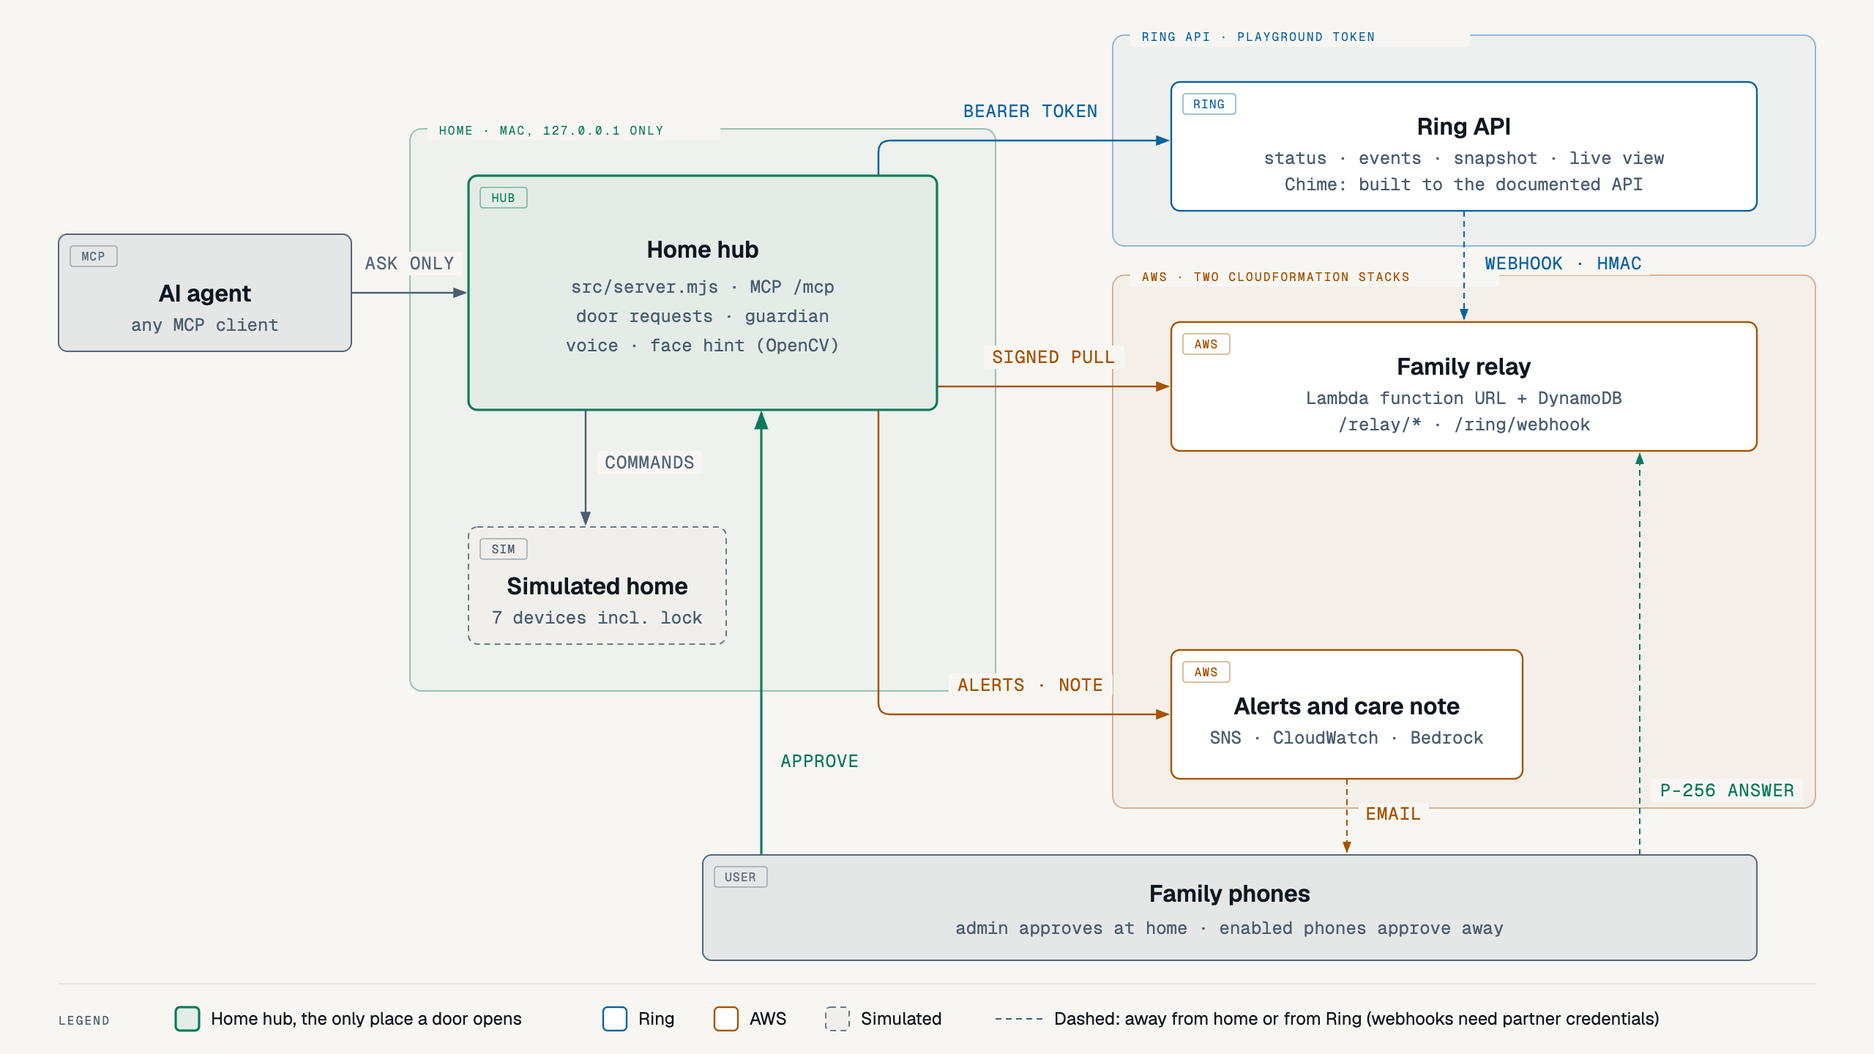
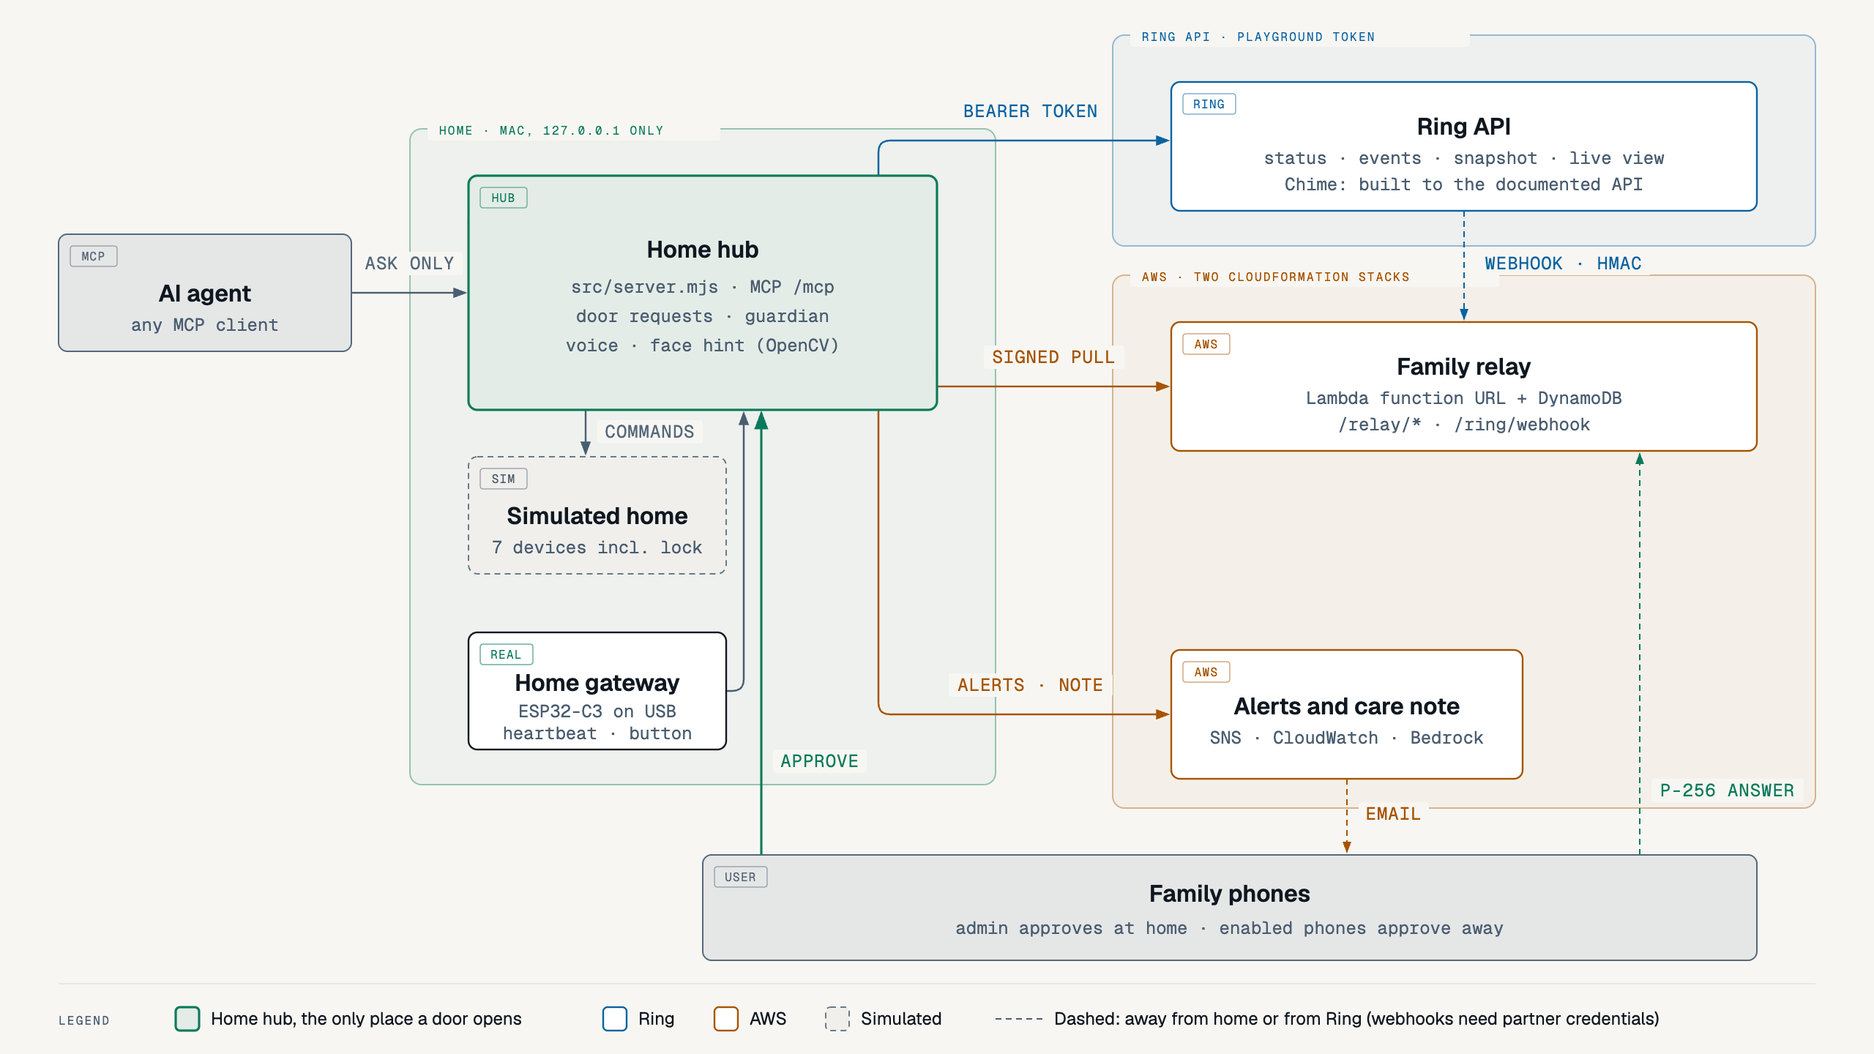
Docs: show the real ESP32-C3 home gateway in the architecture
Overview diagram and both Mermaid charts gain a "Home gateway: real
ESP32-C3 on USB" node (heartbeat, the parent's button). README status
table no longer calls the gateway simulated; SECURITY and THREAT_MODEL
describe how the hub picks and trusts the board and what it can do.

Changed region(s): [[0.25, 0.4062, 0.4062, 0.7188]]

diff --git a/docs/diagrams/system-overview.html b/docs/diagrams/system-overview.html
@@ -62,7 +62,7 @@
     <div class="diagram-container">
       <svg viewBox="0 0 1280 720" xmlns="http://www.w3.org/2000/svg" role="img" aria-labelledby="system-overview-title system-overview-desc">
         <title id="system-overview-title">Home MCP Guardian: what runs where</title>
-        <desc id="system-overview-desc">A home hub on the Mac takes door requests from an AI agent and approvals from family phones, drives simulated home devices, calls the Ring API, and uses two AWS stacks: a signed relay that also receives Ring webhooks, and SNS, CloudWatch and Bedrock for alerts and the daily care note.</desc>
+        <desc id="system-overview-desc">A home hub on the Mac takes door requests from an AI agent and approvals from family phones, drives simulated home devices, watches a real ESP32-C3 home gateway on USB (heartbeat and the parent's button), calls the Ring API, and uses two AWS stacks: a signed relay that also receives Ring webhooks, and SNS, CloudWatch and Bedrock for alerts and the daily care note.</desc>
         <defs>
           <marker id="arrow" markerWidth="8" markerHeight="6" refX="7" refY="3" orient="auto"><polygon points="0 0, 8 3, 0 6" fill="#4a5d70"/></marker>
           <marker id="arrow-accent" markerWidth="8" markerHeight="6" refX="7" refY="3" orient="auto"><polygon points="0 0, 8 3, 0 6" fill="#0b7a5a"/></marker>
@@ -73,7 +73,7 @@
         <rect width="100%" height="100%" fill="#f7f6f3"/>
 
         <!-- ===== Zones ===== -->
-        <rect x="280" y="88" width="400" height="384" rx="8" fill="rgba(11,122,90,0.04)" stroke="rgba(11,122,90,0.40)" stroke-width="1"/>
+        <rect x="280" y="88" width="400" height="448" rx="8" fill="rgba(11,122,90,0.04)" stroke="rgba(11,122,90,0.40)" stroke-width="1"/>
         <rect x="292" y="80" width="200" height="16" rx="2" fill="#f7f6f3"/>
         <text x="300" y="92" fill="#0b7a5a" font-size="8" font-family="'Geist Mono', ui-monospace, monospace" letter-spacing="0.14em">HOME · MAC, 127.0.0.1 ONLY</text>
 
@@ -106,10 +106,12 @@
         <rect x="672" y="236" width="96" height="16" rx="2" fill="#f7f6f3"/>
         <text x="720" y="248" fill="#a65400" font-size="12" font-family="'Geist Mono', ui-monospace, monospace" text-anchor="middle" letter-spacing="0.04em">SIGNED PULL</text>
 
+        <!-- home gateway -> hub: heartbeat every 60 s and the parent's button, over USB -->
+        <path d="M496,472 H500 Q508,472 508,464 V282" fill="none" stroke="#4a5d70" stroke-width="1.2" marker-end="url(#arrow)"/>
         <!-- hub -> simulated devices -->
-        <line x1="400" y1="280" x2="400" y2="358" stroke="#4a5d70" stroke-width="1.2" marker-end="url(#arrow)"/>
-        <rect x="408" y="308" width="72" height="16" rx="2" fill="#f7f6f3"/>
-        <text x="444" y="320" fill="#55687a" font-size="12" font-family="'Geist Mono', ui-monospace, monospace" text-anchor="middle" letter-spacing="0.04em">COMMANDS</text>
+        <line x1="400" y1="280" x2="400" y2="310" stroke="#4a5d70" stroke-width="1.2" marker-end="url(#arrow)"/>
+        <rect x="408" y="287" width="72" height="16" rx="2" fill="#f7f6f3"/>
+        <text x="444" y="299" fill="#55687a" font-size="12" font-family="'Geist Mono', ui-monospace, monospace" text-anchor="middle" letter-spacing="0.04em">COMMANDS</text>
 
         <!-- hub -> alerts and care note -->
         <path d="M600,280 V480 Q600,488 608,488 H798" fill="none" stroke="#a65400" stroke-width="1.2" marker-end="url(#arrow-aws)"/>
@@ -151,12 +153,21 @@
         <text x="480" y="240" fill="#4a5d70" font-size="12" font-family="'Geist Mono', ui-monospace, monospace" text-anchor="middle">voice · face hint (OpenCV)</text>
 
         <!-- Simulated home (optional / simulated) -->
-        <rect x="320" y="360" width="176" height="80" rx="6" fill="#f7f6f3"/>
-        <rect x="320" y="360" width="176" height="80" rx="6" fill="rgba(15,23,32,0.03)" stroke="#6b7a88" stroke-width="1" stroke-dasharray="4,3"/>
-        <rect x="328" y="368" width="32" height="14" rx="2" fill="transparent" stroke="rgba(107,122,136,0.60)" stroke-width="0.8"/>
-        <text x="344" y="378" fill="#4a5d70" font-size="8" font-family="'Geist Mono', ui-monospace, monospace" text-anchor="middle" letter-spacing="0.08em">SIM</text>
-        <text x="408" y="406" fill="#0f1720" font-size="16" font-weight="600" font-family="'Geist', system-ui, sans-serif" text-anchor="middle">Simulated home</text>
-        <text x="408" y="426" fill="#4a5d70" font-size="12" font-family="'Geist Mono', ui-monospace, monospace" text-anchor="middle">7 devices incl. lock</text>
+        <rect x="320" y="312" width="176" height="80" rx="6" fill="#f7f6f3"/>
+        <rect x="320" y="312" width="176" height="80" rx="6" fill="rgba(15,23,32,0.03)" stroke="#6b7a88" stroke-width="1" stroke-dasharray="4,3"/>
+        <rect x="328" y="320" width="32" height="14" rx="2" fill="transparent" stroke="rgba(107,122,136,0.60)" stroke-width="0.8"/>
+        <text x="344" y="330" fill="#4a5d70" font-size="8" font-family="'Geist Mono', ui-monospace, monospace" text-anchor="middle" letter-spacing="0.08em">SIM</text>
+        <text x="408" y="358" fill="#0f1720" font-size="16" font-weight="600" font-family="'Geist', system-ui, sans-serif" text-anchor="middle">Simulated home</text>
+        <text x="408" y="378" fill="#4a5d70" font-size="12" font-family="'Geist Mono', ui-monospace, monospace" text-anchor="middle">7 devices incl. lock</text>
+
+        <!-- Home gateway: real ESP32-C3 on USB (2026-10-17) -->
+        <rect x="320" y="432" width="176" height="80" rx="6" fill="#f7f6f3"/>
+        <rect x="320" y="432" width="176" height="80" rx="6" fill="#ffffff" stroke="#0f1720" stroke-width="1.2"/>
+        <rect x="328" y="440" width="36" height="14" rx="2" fill="transparent" stroke="rgba(11,122,90,0.60)" stroke-width="0.8"/>
+        <text x="346" y="450" fill="#0b7a5a" font-size="8" font-family="'Geist Mono', ui-monospace, monospace" text-anchor="middle" letter-spacing="0.08em">REAL</text>
+        <text x="408" y="472" fill="#0f1720" font-size="16" font-weight="600" font-family="'Geist', system-ui, sans-serif" text-anchor="middle">Home gateway</text>
+        <text x="408" y="490" fill="#4a5d70" font-size="12" font-family="'Geist Mono', ui-monospace, monospace" text-anchor="middle">ESP32-C3 on USB</text>
+        <text x="408" y="505" fill="#4a5d70" font-size="12" font-family="'Geist Mono', ui-monospace, monospace" text-anchor="middle">heartbeat · button</text>
 
         <!-- Ring API (external) -->
         <rect x="800" y="56" width="400" height="88" rx="6" fill="#f7f6f3"/>

diff --git a/THREAT_MODEL.md b/THREAT_MODEL.md
@@ -15,6 +15,8 @@ Trust boundaries:
 | An AI agent (or anyone holding a session) opens the door | Unlock is only ever a request; deciding needs the admin phone's long-lived credential (rotated on use, reuse revokes the phone) and a session from that same phone, or a signed answer from a phone the admin enabled for remote approval (see below); the one-use confirmation is minted and spent server side and never handed to a client; single use, 60 s, one at a time; cloud, schedules and batches still refuse unlock |
 | A forged or replayed remote approval | The hub signs every relay call with an Ed25519 key whose public key is pinned in the stack; each enabled phone signs with its own non-extractable WebCrypto P-256 key; the hub verifies the phone's signature with the public key **it** stored at activation, so a decision written by the cloud or by another phone is rejected; nonces, 10-minute one-time enrolment codes, first-write-wins per request, TTL on every row; a 4xx is never retried |
 | A compromised or misbehaving relay | It can withhold or delay messages (the door then stays locked; the admin phone at home still decides) but cannot create an approval; it only ever sees text (who asks, seconds left), never snapshots, face hints or tokens; its role can only read and write its own table |
+| A fake or wrong board posing as the home gateway (ESP32-C3 on USB) | The hub opens only USB serial ports whose USB device is made by Espressif (vendor id 0x303a, read from macOS `ioreg`) or the one port named in `HOME_MCP_USB_GATEWAY_PORT`; a board must first say hello as `hmg-home-gateway`, any other is asked once and closed; only three small JSON line types are accepted (hello, beat, button), anything else is ignored; the gateway cannot open the door or run devices, it only reports heartbeats and button presses |
+| An AI agent doing more than it should with ordinary devices | Tiered permissions (`src/agent_policy.mjs`): an MCP client may run only low-risk actions inside the family's limits (lights; AC 24–28 °C; dehumidifier 40–60 %; vacuum 08:00–20:00; alarm 05:00–10:00; arm; lock); anything else is refused before the simulator and shown on the timeline; door unlock stays a request a trusted phone approves |
 | A forged, replayed or flooded Ring webhook | The relay accepts an event only with a valid `X-Signature` (`sha256=` + HMAC-SHA256 of the raw body, compared in constant time; no key configured = 503); a repeated `meta.request_id` is dropped; only five event types are queued and only type, sub-type, device id and time are kept, for 24 h; bodies over 16 KB are refused; the hub reads at most 20 events per signed pull, its first pull only records the position, and a doorbell or person event older than 2 minutes never becomes a door request. Even a valid event only creates a request: the door still needs a trusted phone |
 | Ring Chime used to disturb the person at home | Plays only with `HOME_MCP_CHIME=on` and a Ring token loaded, at the same moments as the voice notice, at most once a minute; skipped when the Chime is offline or snoozed; only a slot the owner configured (`audio_ref`) is played, never caller-supplied audio |
 | A care note that invents facts | Bedrock gets only the day's facts (times, devices, outcomes); every number in the note must appear in those facts or the family gets the template note instead; the model has no tools and cannot act |
@@ -23,7 +25,7 @@ Trust boundaries:
 | Door snapshot leaks | Memory only, dropped when the request ends; admin phone only (`no-store`, own CSP); never in email, logs or files; Ring token never sent to the pre-signed image URL |
 | Local attacker in the browser | Loopback-only server, Host/Origin checks, separate operator code with rate limit for every Ring action, no secrets sent to the page |
 
-Known residual risks (current): a paired phone's credential sits in that browser's localStorage, so script running in the console page on that phone could use it (rotation turns a later copy into a revoke, not a prevention); a trusted phone never expires on its own (owner choice), so removal is the control and a lost phone must be removed; an admin phone stands in for the operator code; phones reach the loopback server through adb reverse in this version, and plain-HTTP LAN access is not supported because it would expose the credential on Wi-Fi; the relay URL is public by design (unauthenticated callers get refusals; abuse could cost DynamoDB/Lambda requests, not a door opening); an enabled phone's signing key lives in that browser's IndexedDB (non-extractable, but usable by script on that page) until the admin removes the phone; the Ring webhook HMAC key is a NoEcho stack parameter but sits in the relay Lambda's environment, so anyone in the AWS account allowed to read the function configuration can read it; the relay is trusted for webhook events, so a compromised relay could insert or replay events (at worst a door request that a phone must still approve, or a wrong camera state until the next event or status check); `device_online` / `device_offline` events carry no age limit, so a delayed one can set the camera state late; an AI agent's door request makes the Chime sound like any other door request (once a minute at most).
+Known residual risks (current): a paired phone's credential sits in that browser's localStorage, so script running in the console page on that phone could use it (rotation turns a later copy into a revoke, not a prevention); a trusted phone never expires on its own (owner choice), so removal is the control and a lost phone must be removed; an admin phone stands in for the operator code; phones reach the loopback server through adb reverse in this version, and plain-HTTP LAN access is not supported because it would expose the credential on Wi-Fi; the relay URL is public by design (unauthenticated callers get refusals; abuse could cost DynamoDB/Lambda requests, not a door opening); an enabled phone's signing key lives in that browser's IndexedDB (non-extractable, but usable by script on that page) until the admin removes the phone; the Ring webhook HMAC key is a NoEcho stack parameter but sits in the relay Lambda's environment, so anyone in the AWS account allowed to read the function configuration can read it; the relay is trusted for webhook events, so a compromised relay could insert or replay events (at worst a door request that a phone must still approve, or a wrong camera state until the next event or status check); `device_online` / `device_offline` events carry no age limit, so a delayed one can set the camera state late; an AI agent's door request makes the Chime sound like any other door request (once a minute at most). Anyone with physical access to the Mac could plug in an ESP32 flashed with the same firmware id and send heartbeats or button presses: it can raise or calm gateway alerts and send a help email, but cannot open the door or run a device.
 
 ## Earlier phase: cloud MCP chain
 

diff --git a/README.md b/README.md
@@ -49,7 +49,8 @@ flowchart TB
   end
   subgraph MAC["Mac at home, 127.0.0.1 only"]
     HUB["Home hub: src/server.mjs<br/>local MCP /mcp, pairing with a macOS dialog,<br/>door requests, guardian, voice notice,<br/>face hint (OpenCV), daily care note"]
-    SIM["SIMULATED: 7 devices incl. the door lock,<br/>home gateway"]
+    SIM["SIMULATED: 7 devices incl. the door lock"]
+    GW["Home gateway: real ESP32-C3 on USB<br/>heartbeat every 60 s, the parent's button<br/>(simulated unless HOME_MCP_USB_GATEWAY=on)"]
   end
   RING["Ring API, Playground token in hub memory<br/>devices, capabilities, status, Event History,<br/>Image Snapshots, Live Video (WHEP)<br/>Chime playback: built to the documented API"]
   subgraph NOTIFY["AWS stack home-mcp-notify"]
@@ -64,7 +65,8 @@ flowchart TB
   AP -- "approve / deny, Ring live view" --> HUB
   FP -- "ask to open the door" --> HUB
   AG -- "MCP tools/call: unlock is only a request" --> HUB
-  HUB -- "commands, receipts, heartbeats" --> SIM
+  HUB -- "commands, receipts" --> SIM
+  GW -- "USB: heartbeat, button press" --> HUB
   HUB -- "Bearer token" --> RING
   HUB -- "alerts" --> SNS
   HUB -- "HubHeartbeat every 5 min" --> CW
@@ -77,11 +79,13 @@ flowchart TB
   classDef people fill:#ffffff,stroke:#4a6073,color:#0f1720
   classDef hub fill:#e3f7ef,stroke:#1f9e78,stroke-width:2px,color:#0f1720
   classDef sim fill:#eef1f4,stroke:#8a9aa8,stroke-dasharray:4 3,color:#0f1720
+  classDef real fill:#ffffff,stroke:#0f1720,stroke-width:2px,color:#0f1720
   classDef ring fill:#e3f2fc,stroke:#1a8fd6,stroke-width:2px,color:#0f1720
   classDef aws fill:#fff1dc,stroke:#e68a00,color:#0f1720
   class AP,FP,AG people
   class HUB hub
   class SIM sim
+  class GW real
   class RING ring
   class SNS,CW,BR,FURL,DDB aws
   style MAC fill:#f3fbf8,stroke:#1f9e78
@@ -123,7 +127,8 @@ And AI agents can now operate things in the home. Our rule is simple: **the AI c
 | Amazon Bedrock daily note | **Real calls** (Converse, `global.anthropic.claude-sonnet-4-5-20250929-v1:0`, through the notifier's least-privilege profile; permission limited to that model). Without Bedrock, or if the note mentions a number not in the day's log, the hub sends the template note |
 | Earlier phase: cloud MCP chain on API Gateway, Lambda, Cognito, DynamoDB, KMS, Secrets Manager | **Real deployment**, still running, not in the video; see [docs/EARLIER_PHASE_CLOUD_MCP.md](docs/EARLIER_PHASE_CLOUD_MCP.md) |
 | Phone pairing, approvals, receipts, timeline, local MCP server, voice notice | **Real**, running on the Mac |
-| Seven home devices (incl. the door lock) and the home gateway | **Software simulations** — no physical device is controlled |
+| Seven home devices (incl. the door lock) | **Software simulations** — no physical device is controlled |
+| Home gateway (heartbeat, the parent's "I'm OK" / help button) | **Real ESP32-C3 on USB** with `HOME_MCP_USB_GATEWAY=on` (firmware in `firmware/home_gateway`); tested 2026-10-17: button presses reached the timeline, unplugging sent the real "Home gateway offline" email after 5 minutes, replugging recovered. It only reports; it never controls a device. Simulated when the option is off |
 | Face hint | **Real**, on the Mac (OpenCV YuNet + SFace); faces in the video are AI-generated fictional people |
 | Ring partner webhooks (relay `POST /ring/webhook`) | **Real deployment** on the relay stack; HMAC check, de-duplication and the hub's pull tested in a live run on 2026-10-16: signed test events shaped like Ring's documented examples were sent from AWS CloudShell to the live URL (reproduce with `scripts/live_webhook_test_cloudshell.sh`); 3 events reached the hub in 0.7–2.5 s, a repeat was dropped, and on the full hub a doorbell event became a door request and `device_offline` / `device_online` changed the camera state. Real Ring deliveries need partner credentials with account linking, which our account does not have |
 | Ring Chime announcements | Device discovery and capabilities ran on the real Ring API (our Playground account has one camera and no Chime, so the hub logs `no_chime`); playback, snooze and offline handling are tested against the documented responses (`tests/ring_chime.mjs`) |

diff --git a/SECURITY.md b/SECURITY.md
@@ -11,10 +11,11 @@ Please open a GitHub issue without exploit details, or contact the maintainer th
 ## Network exposure
 - The local console binds to `127.0.0.1` and checks Host/Origin headers; it is not reachable from other machines.
 - Family relay: a public Lambda function URL. Hub calls must carry an Ed25519 signature from the pinned hub key; phone calls must carry a P-256 signature from an activated phone; the hub verifies each decision again before anything opens. Ring webhook calls (`POST /ring/webhook`) must carry a valid `X-Signature` HMAC-SHA256 of the raw body; without a configured key the route answers 503. Bodies are capped at 8 KB (16 KB for `/ring/webhook`) and every row expires.
+- Optional USB home gateway (`HOME_MCP_USB_GATEWAY=on`): the hub only opens a serial port whose USB vendor id is Espressif (0x303a) or the port named in `HOME_MCP_USB_GATEWAY_PORT`, and only trusts it after a hello with the expected gateway id. Lines longer than 256 characters or not in the JSON line format are dropped. The board can only report a heartbeat or a button press; it cannot open the door or control a device.
 - The hub calls Amazon SNS, CloudWatch and Bedrock through the AWS CLI with a dedicated least-privilege profile; it never handles access keys.
 
 ## Dependencies
-- Local console: Node.js standard library only (no npm dependencies). Optional features call system tools by absolute path: `/usr/bin/osascript` (pairing dialog), `/usr/bin/say` (voice notice), the AWS CLI (email, heartbeat, Bedrock) and a local Python with `opencv-python-headless` and `numpy` (face hint).
+- Local console: Node.js standard library only (no npm dependencies). Optional features call system tools by absolute path: `/usr/bin/osascript` (pairing dialog), `/usr/bin/say` (voice notice), `/usr/sbin/ioreg`, `/bin/stty` and `/bin/cat` (USB home gateway), the AWS CLI (email, heartbeat, Bedrock) and a local Python with `opencv-python-headless` and `numpy` (face hint).
 - The relay Lambda uses the AWS SDK bundled in the Node.js 22 runtime.
 
 ## Earlier phase (cloud MCP chain)

diff --git a/docs/ARCHITECTURE.md b/docs/ARCHITECTURE.md
@@ -21,7 +21,8 @@ flowchart TB
   end
   subgraph MAC["Mac at home, 127.0.0.1 only"]
     HUB["Home hub: src/server.mjs<br/>local MCP /mcp, pairing with a macOS dialog,<br/>door requests, guardian, voice notice,<br/>face hint (OpenCV), daily care note"]
-    SIM["SIMULATED: 7 devices incl. the door lock,<br/>home gateway"]
+    SIM["SIMULATED: 7 devices incl. the door lock"]
+    GW["Home gateway: real ESP32-C3 on USB<br/>heartbeat every 60 s, the parent's button<br/>(simulated unless HOME_MCP_USB_GATEWAY=on)"]
   end
   RING["Ring API, Playground token in hub memory<br/>devices, capabilities, status, Event History,<br/>Image Snapshots, Live Video (WHEP)<br/>Chime playback: built to the documented API"]
   subgraph NOTIFY["AWS stack home-mcp-notify"]
@@ -36,7 +37,8 @@ flowchart TB
   AP -- "approve / deny, Ring live view" --> HUB
   FP -- "ask to open the door" --> HUB
   AG -- "MCP tools/call: unlock is only a request" --> HUB
-  HUB -- "commands, receipts, heartbeats" --> SIM
+  HUB -- "commands, receipts" --> SIM
+  GW -- "USB: heartbeat, button press" --> HUB
   HUB -- "Bearer token" --> RING
   HUB -- "alerts" --> SNS
   HUB -- "HubHeartbeat every 5 min" --> CW
@@ -49,11 +51,13 @@ flowchart TB
   classDef people fill:#ffffff,stroke:#4a6073,color:#0f1720
   classDef hub fill:#e3f7ef,stroke:#1f9e78,stroke-width:2px,color:#0f1720
   classDef sim fill:#eef1f4,stroke:#8a9aa8,stroke-dasharray:4 3,color:#0f1720
+  classDef real fill:#ffffff,stroke:#0f1720,stroke-width:2px,color:#0f1720
   classDef ring fill:#e3f2fc,stroke:#1a8fd6,stroke-width:2px,color:#0f1720
   classDef aws fill:#fff1dc,stroke:#e68a00,color:#0f1720
   class AP,FP,AG people
   class HUB hub
   class SIM sim
+  class GW real
   class RING ring
   class SNS,CW,BR,FURL,DDB aws
   style MAC fill:#f3fbf8,stroke:#1f9e78
